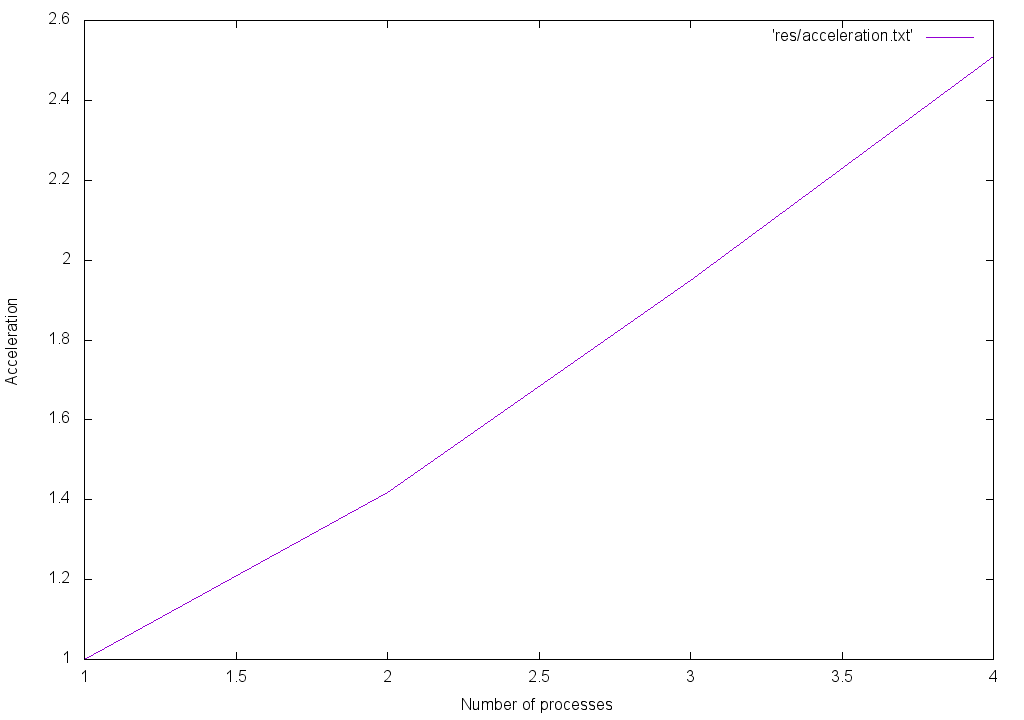
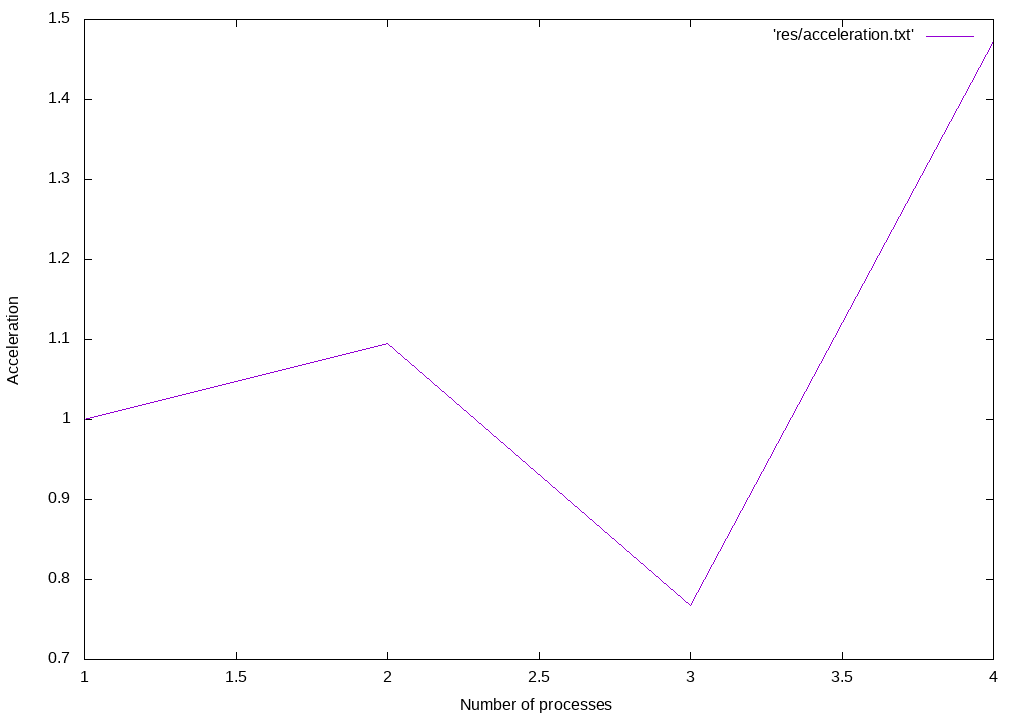
Updated res

diff --git a/OpenMP_heat/OmpFor/test.c b/OpenMP_heat/OmpFor/test.c
@@ -14,8 +14,6 @@ int main(int argc, char **argv)
 	size_t M = 10;
 	// Количество паралельных процессов
 	size_t size = 1;
-	// Количество последовательных выполнений программы для получения среднего времени выполнения
-    size_t numexp = 1;
 
 
 	if (argc > 1) {
@@ -41,9 +39,6 @@ int main(int argc, char **argv)
 					printf("Required number of processes is unreasonable compared to coordinate partition!\n");
 					return EXIT_FAILURE;
 				}
-				if (argc > 4) {
-					numexp = atoll(argv[3]);
-				}
             }
         }
     }
@@ -54,6 +49,10 @@ int main(int argc, char **argv)
 	double tau = 0.3 * h * h;
     // Число разбиений по времени
 	int N = Time / tau;
+    if (N < 1) {
+        printf("Cannot make a time loop");
+        return EXIT_FAILURE;
+    }
 
     // Массивы температуры для момента времени n и n + 1 соответственно
 	double *u0 = (double*) malloc(sizeof(double) * M);
@@ -72,36 +71,33 @@ int main(int argc, char **argv)
 	u0[M - 1] = u1[M - 1] = Temperature_2;
 
 	double time = 0.0;
-
     // Задаем кол-во процессов для следующего распараллеливания
 	omp_set_num_threads(size);
-	for(size_t j = 0; j < numexp; j++) {
-		// Начинаем отсчет времени
-		double start = omp_get_wtime();
+    
+	// Начинаем отсчет времени
+	double start = omp_get_wtime();
+    #pragma omp parallel private(n)
+    {
+        for (n = 0; n < N; n++) {	 // Цикл по времени
+            // Явный метод
+            #pragma omp for
+            for (m = 1; m < M - 1; m++) {
+                u1[m] = u0[m] + 0.3  * (u0[m - 1] - 2.0 * u0[m] + u0[m + 1]);
+            }
+            #pragma omp single
+            {
+                // Обновление результатов
+                double *t = u0;
+                u0 = u1;
+                u1 = t;
+            }
+        }
+    }
+    // Рассчитываем время работы программы
+    time += omp_get_wtime() - start;
 
-		 #pragma omp parallel private(n)
-		{
-			for (n = 0; n < N; n++) {	 // Цикл по времени
-				// Явный метод
-				#pragma omp for
-				for (m = 1; m < M - 1; m++) {
-					u1[m] = u0[m] + 0.3  * (u0[m - 1] - 2.0 * u0[m] + u0[m + 1]);
-				}
-				#pragma omp single
-				{
-					// Обновление результатов
-					double *t = u0;
-					u0 = u1;
-					u1 = t;
-				}
-			}
-		}
-		// Рассчитываем время работы программы
-		time += omp_get_wtime() - start;
-	}
-	
-	printf("\n %d %lf\n", size, time / numexp);
-	
+	// Вывод на экран
+	printf("\n %d %lf\n", size, time);
     //Освобождение памяти
 	free(u0);
 	free(u1);
